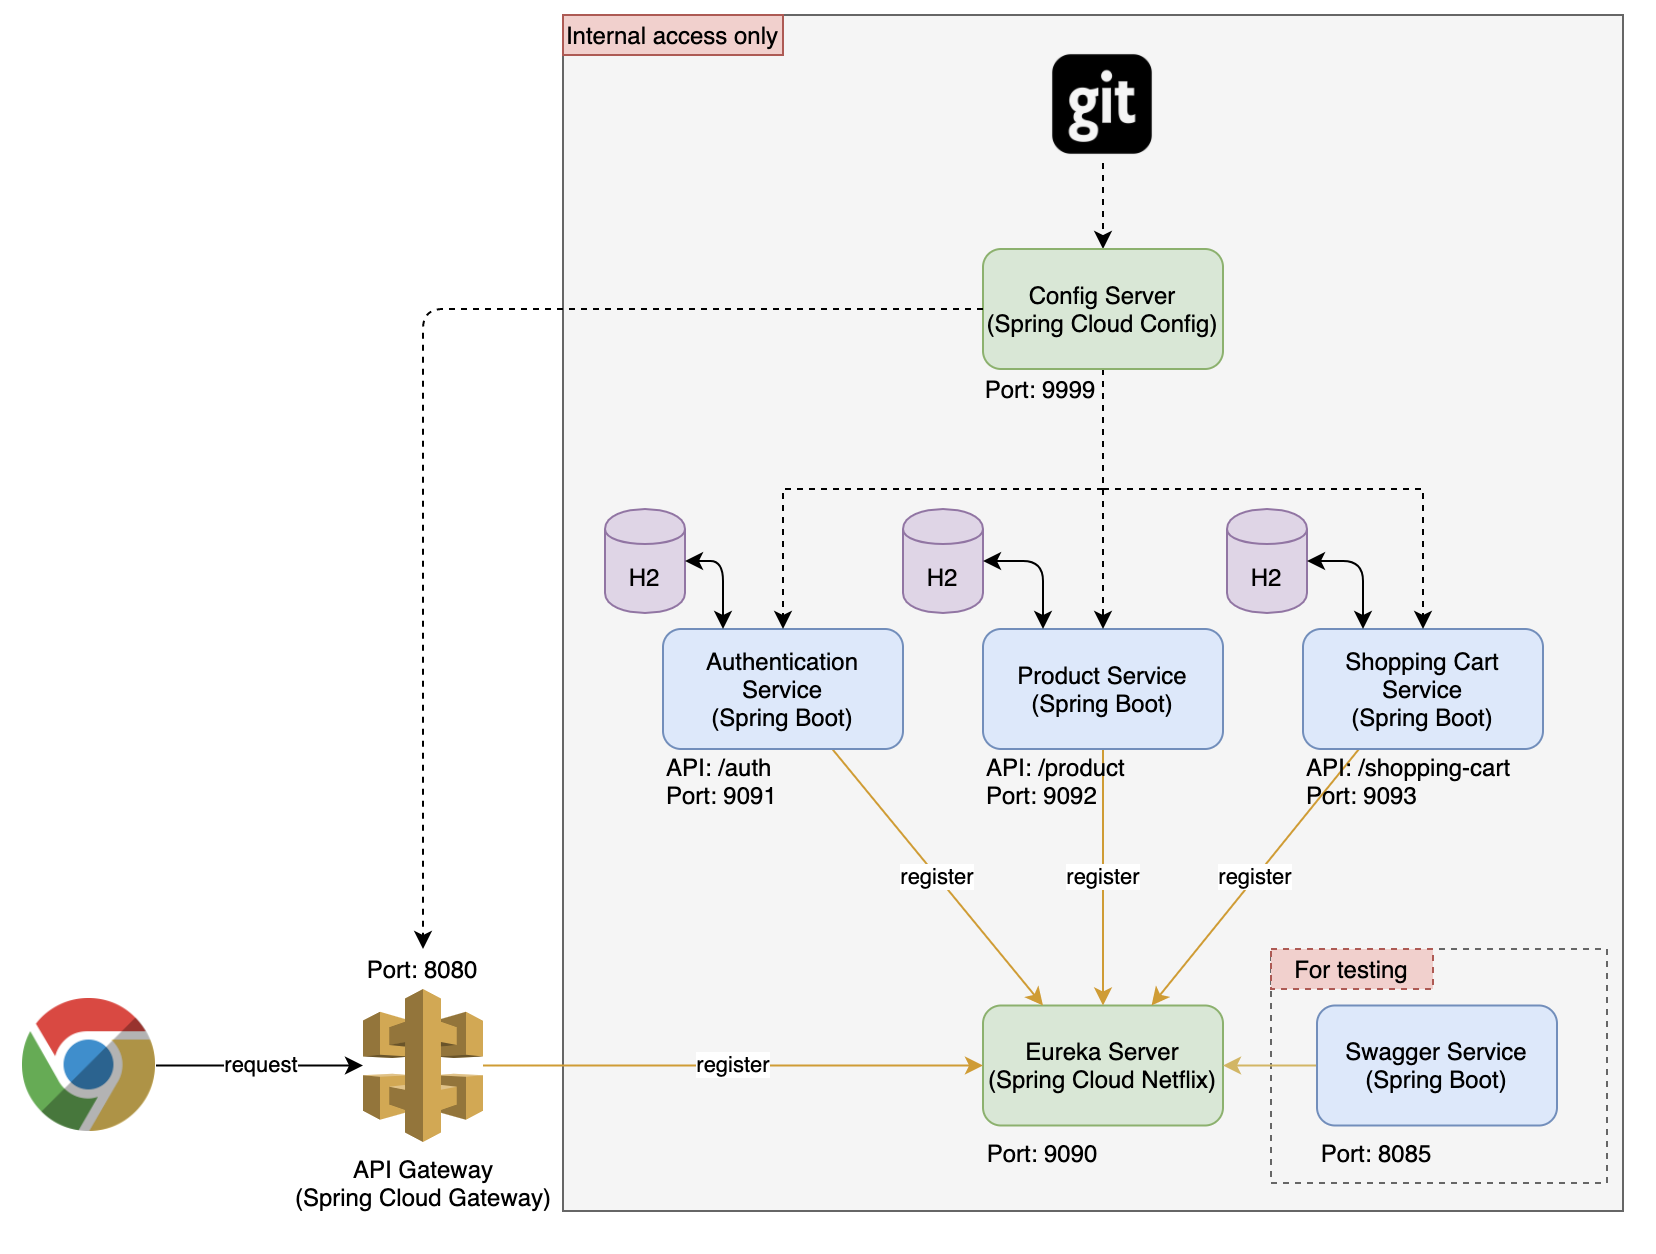
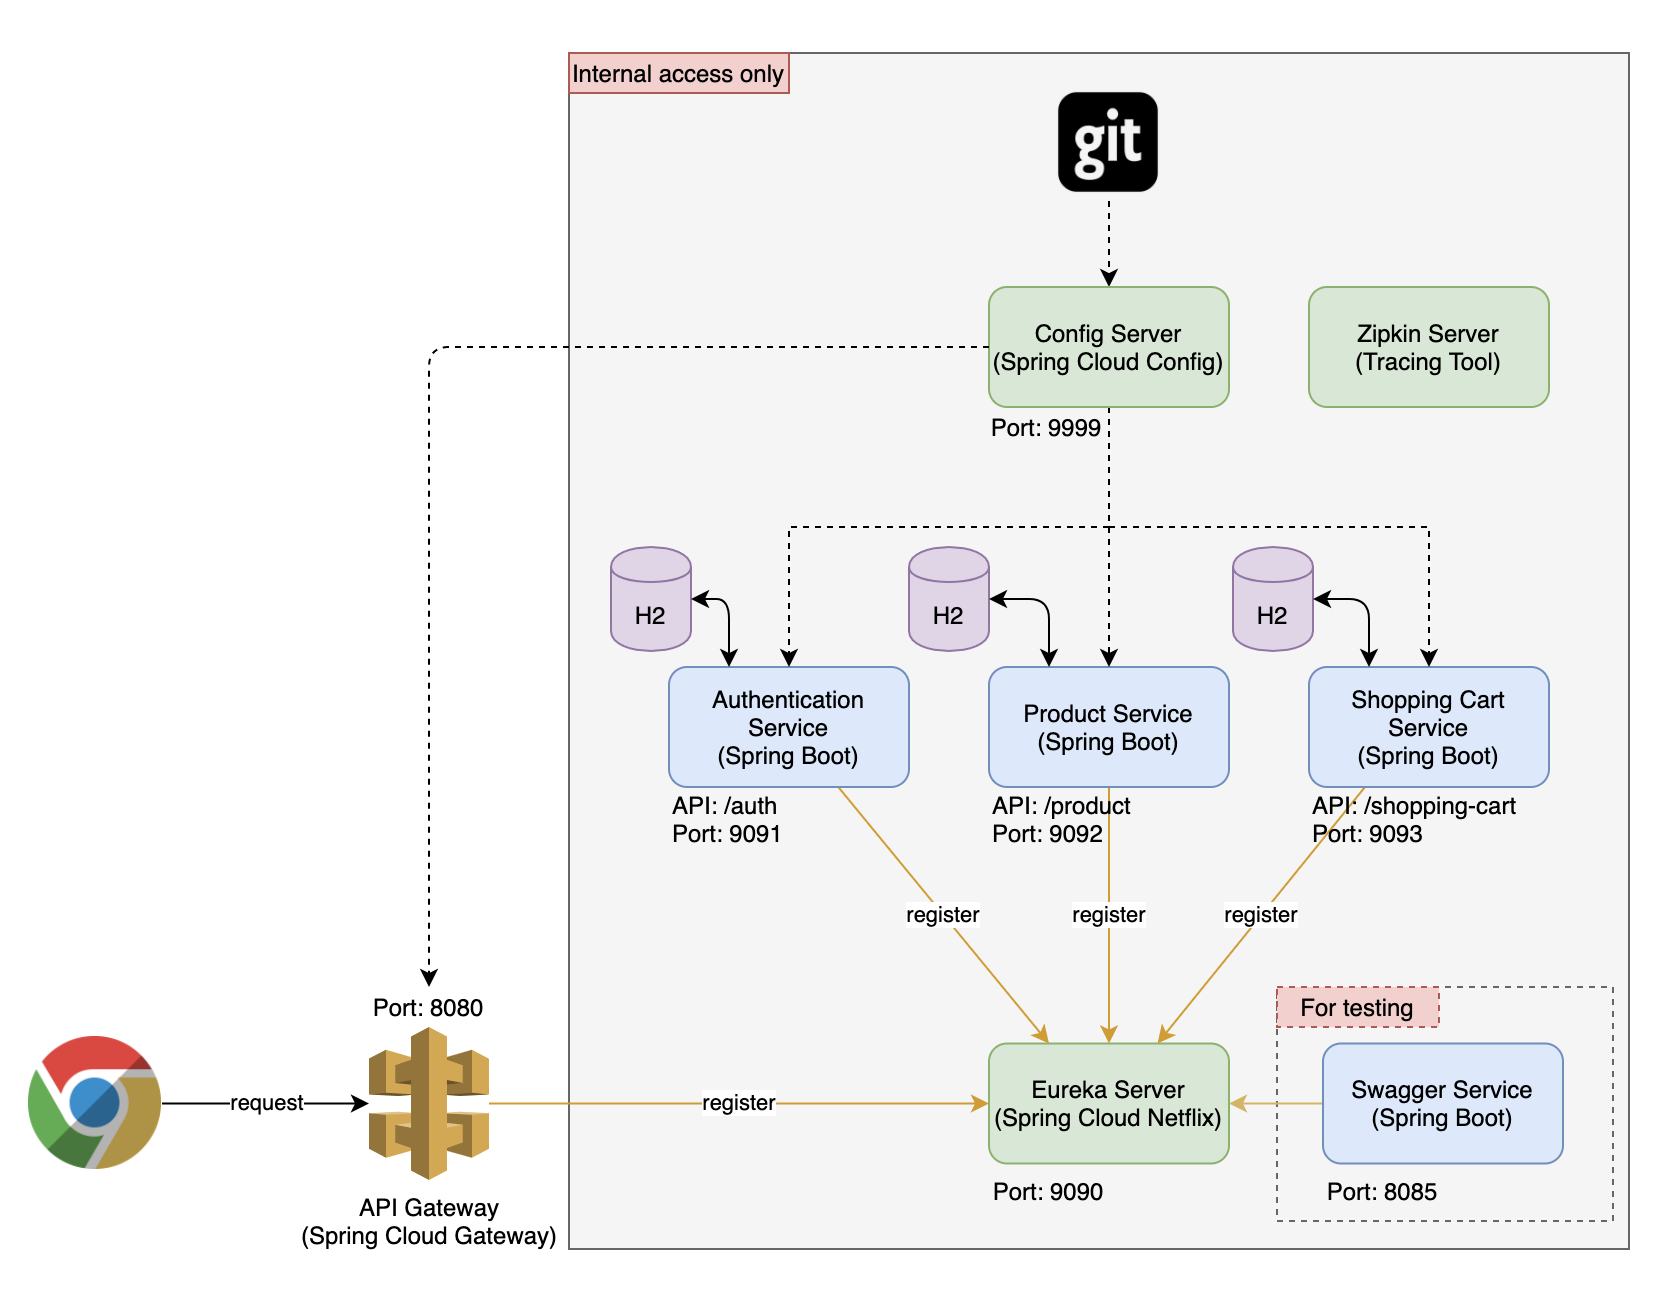
update readme: add zipkin config

diff --git a/README.md b/README.md
@@ -48,6 +48,7 @@ The project description, structure and dependencies will be in each project fold
 [authenticationservice](https://github.com/hoangdieuctu/icommerce/tree/master/authenticationservice)<br>
 [configserver](https://github.com/hoangdieuctu/icommerce/tree/master/configserver)<br>
 [eurekaserver](https://github.com/hoangdieuctu/icommerce/tree/master/eurekaserver)<br>
+[zipkinserver](https://github.com/hoangdieuctu/icommerce/tree/master/zipkinserver)<br>
 [productservice](https://github.com/hoangdieuctu/icommerce/tree/master/productservice)<br>
 [shoppingcartservice](https://github.com/hoangdieuctu/icommerce/tree/master/shoppingcartservice)<br>
 [swaggerservice](https://github.com/hoangdieuctu/icommerce/tree/master/swaggerservice)<br>
@@ -66,6 +67,13 @@ java -jar target/configserver-*.jar
 ```bash
 mvn clean install
 java -jar target/eurekaserver-*.jar
+```
+
+#### Run Zip Server
+The place to trace the request through all services.
+Access: http://localhost:9411
+```bash
+java -jar zipkinserver.jar
 ```
 
 #### Run API Gateway

diff --git a/productservice/README.md b/productservice/README.md
@@ -62,6 +62,7 @@ The service for manage all the products. Allow searching, filtering and view det
 ```
 spring-cloud-starter-config
 spring-cloud-starter-netflix-eureka-client
+spring-cloud-starter-zipkin
 spring-boot-starter-web
 spring-boot-starter-data-jpa
 ```

diff --git a/apigateway/README.md b/apigateway/README.md
@@ -36,6 +36,7 @@ It also store the audit information by using the filters.
 ```
 spring-cloud-starter-config
 spring-cloud-starter-netflix-eureka-client
+spring-cloud-starter-zipkin
 spring-cloud-starter-gateway
 spring-boot-starter-data-jpa
 jjwt

diff --git a/shoppingcartservice/README.md b/shoppingcartservice/README.md
@@ -63,6 +63,7 @@ It's allow user view their cart and add more items to the cart.
 ```
 spring-cloud-starter-config
 spring-cloud-starter-netflix-eureka-client
+spring-cloud-starter-zipkin
 spring-boot-starter-web
 spring-boot-starter-data-jpa
 ```

diff --git a/authenticationservice/README.md b/authenticationservice/README.md
@@ -76,6 +76,7 @@ GET
 ```
 spring-cloud-starter-config
 spring-cloud-starter-netflix-eureka-client
+spring-cloud-starter-zipkin
 spring-boot-starter-web
 spring-boot-starter-data-jpa
 jjwt

diff --git a/zipkinserver/README.md b/zipkinserver/README.md
@@ -10,3 +10,5 @@ By default, it will run on port: 9411
 ```bash
 java -jar zipkinserver.jar
 ```
+
+Access: http://localhost:9411/
